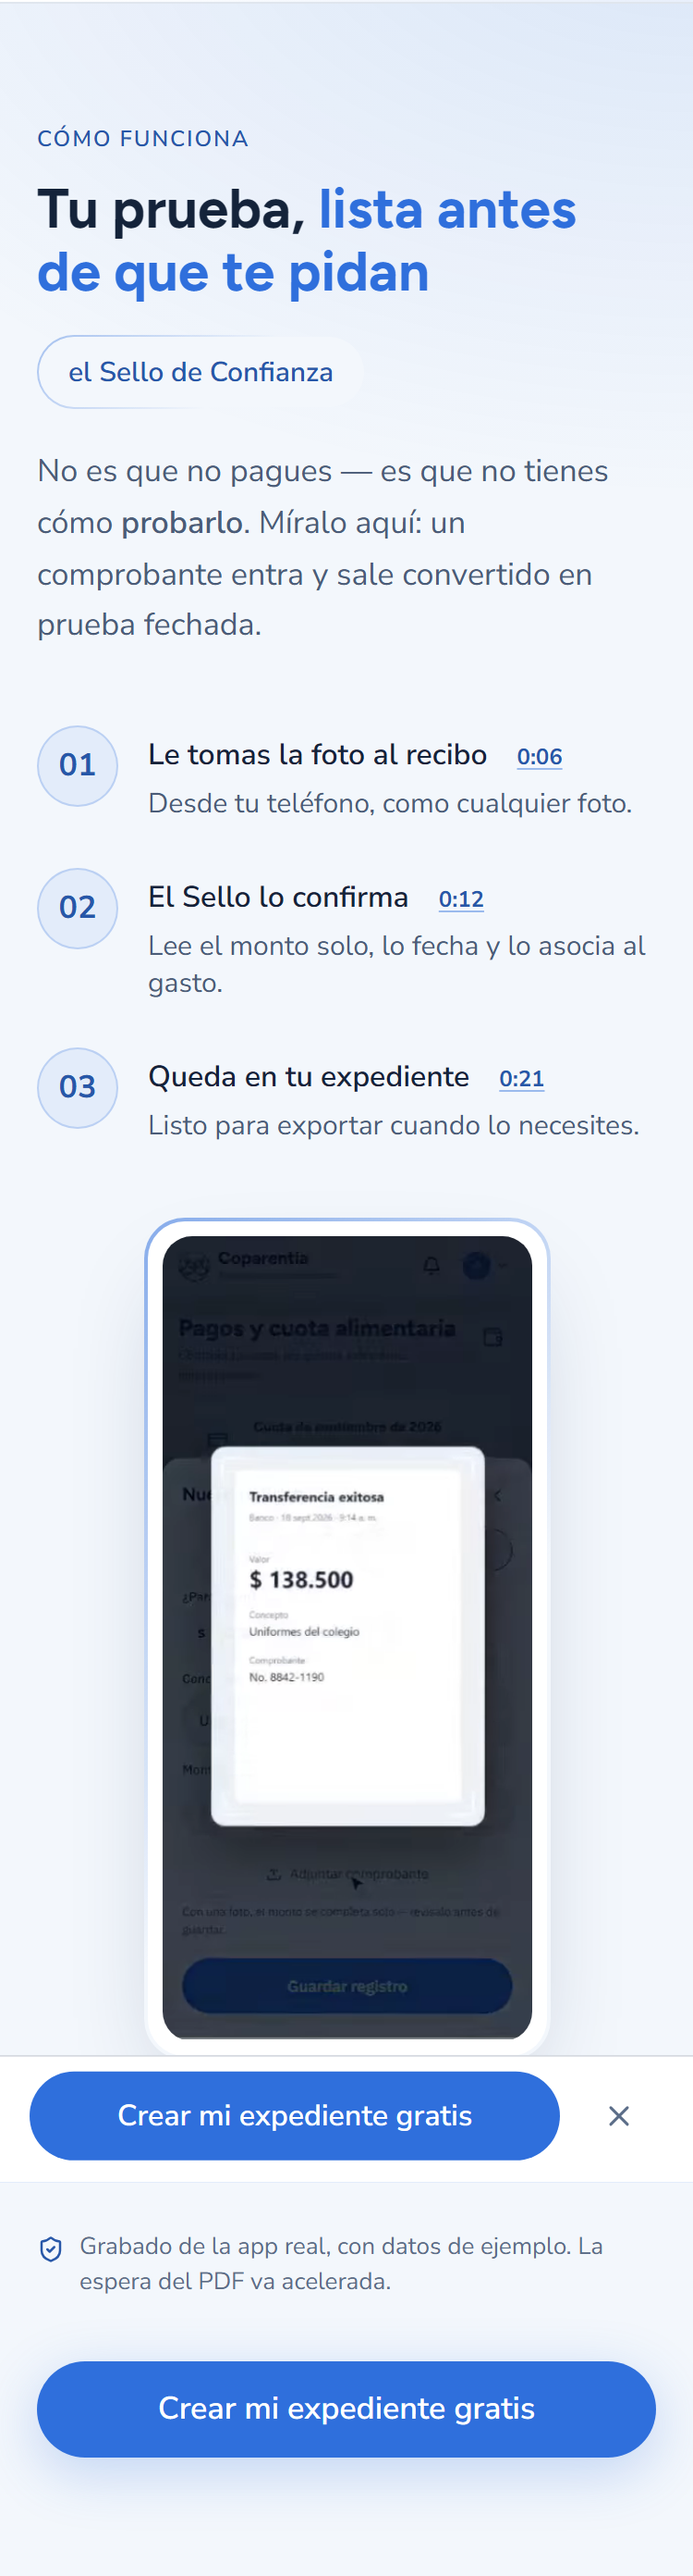
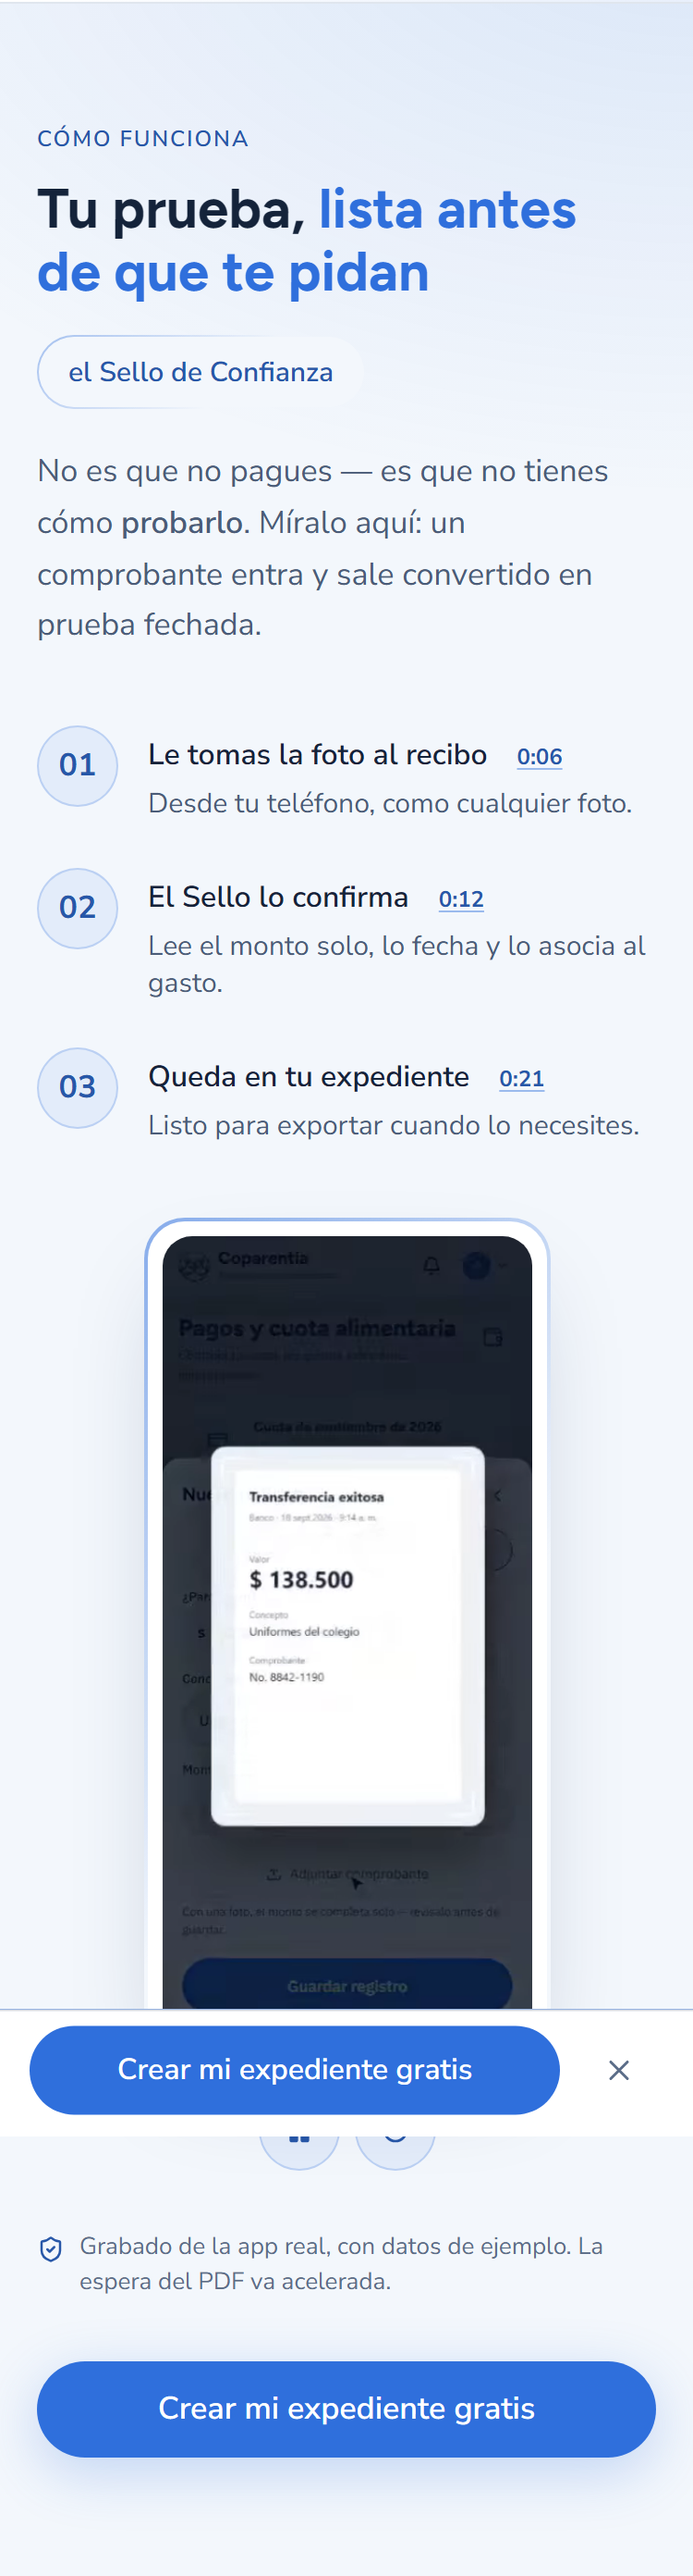
feat(legal): enlace visible a la SIC en landing, Ajustes y onboarding
Pedido del equipo juridico (normativa colombiana de proteccion al
consumidor, art. 40): la pagina debe contener un enlace visible a la
Superintendencia de Industria y Comercio.

- FooterLegal.tsx: nuevo enlace "SIC" (https://www.sic.gov.co/); los enlaces
  externos ahora abren en pestana nueva (target="_blank" + rel seguro),
  nunca sacan a alguien de mitad de la pagina de ventas.
- Ajustes: mismo enlace junto a Politica de Privacidad y soporte.
- Onboarding: no tenia NINGUN pie de pagina. Se agrega uno compacto con los
  4 enlaces + SIC, SOLO en la primera pregunta (paso 0) — en los pasos
  siguientes competiria con el CTA anclado abajo (mt-auto) que el revisor ya
  aprobo varias rondas.

Verificado: tsc/build limpios, capturas confirman el texto exacto en los
tres lugares.

Changed region(s): [[0.0307, 0.7812, 0.828, 0.8438]]

diff --git a/app/(funnel)/onboarding/page.tsx b/app/(funnel)/onboarding/page.tsx
@@ -413,6 +413,38 @@ export default function Onboarding() {
           <PanelExpediente filas={filas} compacto />
         </div>
       )}
+
+      {/* Pie legal — SOLO en la primera pregunta (2026-09-24, normativa colombiana de protección al
+          consumidor): en los pasos siguientes competiría con el CTA anclado abajo (mt-auto) que el
+          revisor ya aprobó varias rondas — un enlace nuevo por pantalla movería esa ancla. Aquí,
+          antes de que la persona conteste nada, no hay CTA anclado que perturbar. */}
+      {paso === 0 && (
+        <nav aria-label="Enlaces legales" className="mt-6 flex flex-wrap items-center justify-center gap-x-1 gap-y-0 pb-2 text-center lg:justify-start">
+          {[
+            { label: 'Privacidad', href: '/privacidad' },
+            { label: 'Términos y Condiciones', href: '/terminos' },
+            { label: 'Reembolsos', href: '/reembolsos' },
+            { label: 'Aviso de IA', href: '/aviso-ia' },
+            { label: 'SIC', href: 'https://www.sic.gov.co/', externo: true },
+          ].map((e, i) => (
+            <span key={e.href} className="flex items-center">
+              {i > 0 && (
+                <span aria-hidden="true" className="px-1 text-[var(--text-tertiary)]">
+                  ·
+                </span>
+              )}
+              <a
+                href={e.href}
+                target={e.externo ? '_blank' : undefined}
+                rel={e.externo ? 'noopener noreferrer' : undefined}
+                className="px-1 py-3 text-[12px] text-[var(--text-tertiary)] underline-offset-4 hover:text-[var(--text-secondary)] hover:underline"
+              >
+                {e.label}
+              </a>
+            </span>
+          ))}
+        </nav>
+      )}
     </MarcoFunnel>
   );
 }

diff --git a/components/landing/FooterLegal.tsx b/components/landing/FooterLegal.tsx
@@ -47,9 +47,12 @@ export function FooterLegal({ appName, logo, marcaSoloLogo = false, enlaces, sop
                       ·
                     </span>
                   )}
-                  {/* py-3 = área táctil ≥44px sin líneas pegadas */}
+                  {/* py-3 = área táctil ≥44px sin líneas pegadas. Externo (ej. la SIC) abre en
+                      pestaña nueva: nunca sacar a alguien de mitad de la página de ventas. */}
                   <a
                     href={e.href}
+                    target={e.href.startsWith('http') ? '_blank' : undefined}
+                    rel={e.href.startsWith('http') ? 'noopener noreferrer' : undefined}
                     className="px-1 py-3 text-[13px] text-[var(--text-tertiary)] underline-offset-4 hover:text-[var(--text-secondary)] hover:underline lg:text-[15px]"
                   >
                     {e.label}

diff --git a/app/(app)/ajustes/page.tsx b/app/(app)/ajustes/page.tsx
@@ -428,7 +428,17 @@ export default function Ajustes() {
         <a href="mailto:soporte@coparentia.co" className="text-[var(--accent)] underline">
           soporte@coparentia.co
         </a>
-        .
+        .{' '}
+        {/* Exigido por la normativa colombiana de proteccion al consumidor (2026-09-24) — enlace
+            visible a la autoridad, abre en pestaña nueva. */}
+        <a
+          href="https://www.sic.gov.co/"
+          target="_blank"
+          rel="noopener noreferrer"
+          className="text-[var(--accent)] underline"
+        >
+          SIC
+        </a>
       </p>
       </ContenedorApp>
     </>

diff --git a/app/page.tsx b/app/page.tsx
@@ -256,6 +256,9 @@ export default function Home() {
           { label: 'Términos y Condiciones', href: '/terminos' },
           { label: 'Reembolsos', href: '/reembolsos' },
           { label: 'Aviso de IA', href: '/aviso-ia' },
+          // Exigido por la normativa colombiana de protección al consumidor (2026-09-24, aportada
+          // por el equipo jurídico): enlace visible a la autoridad de protección al consumidor.
+          { label: 'SIC', href: 'https://www.sic.gov.co/' },
         ]}
       />
 
